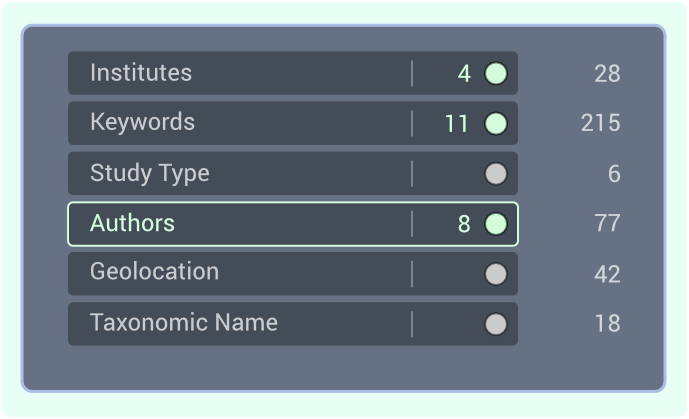
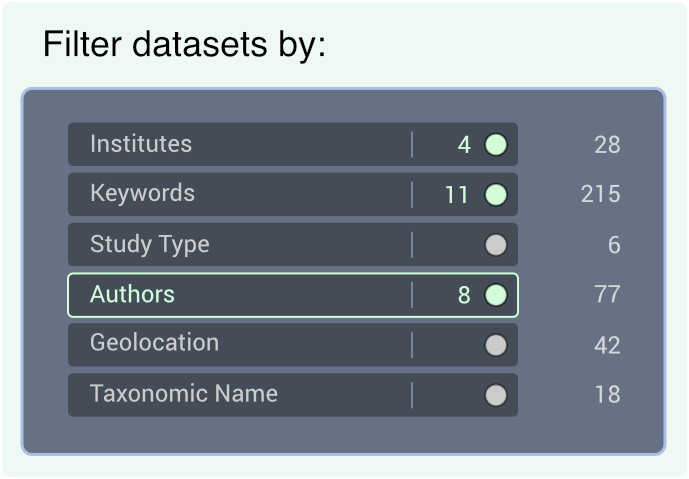
feat RD-85: Add scrollable facets on search page

diff --git a/src/css/r2-boxes-v2.scss b/src/css/r2-boxes-v2.scss
@@ -67,6 +67,41 @@
                 }
             }
 
+            &.v2-search-page-facets-dn-inner {
+                top: 0px;
+                left: 7px;
+                .v2-search-page-facets-dn-inner-box {
+                    width: 322px;
+                    height: calc(100vh - 464px);
+                    top: 361px;
+                    left: 800px;
+                    border-radius: 8px;
+                    background-color: #7b8594;
+                }
+                .view {
+                    .scrollable {
+                        top: 370px;
+                        left: 810px;
+                        height: calc(100vh - 483px);
+                        width: 310px;
+                        .elements {
+                            .v2-search-page-facets-dn-inner-list-1,
+                            .v2-search-page-facets-dn-inner-list-2 {
+                                left: 8px;
+                                top: 4px;
+                                width: calc(560px / 2);
+                                height: calc(640px / 2);
+                            }
+                            .v2-search-page-facets-dn-inner-list-2 {
+                                top: 324px;
+                            }
+
+
+                        }
+                    }
+                }
+            }
+
             &.v2-search-page {
                 top: 0px;
                 left: 7px;
@@ -126,18 +161,31 @@
                         }
 
                         .v2-search-page-facets-up {
-                            // 689 × 419
                             width: calc(689px / 2);
-                            height: calc(419px / 2);
+                            height: calc(479px / 2);
                             top: 58px;
                             left: 789px;
                         }
-                        .v2-search-page-facets-dn {
-                            // 689 × 857
+                        // .v2-search-page-facets-dn {
+                        //     width: calc(689px / 2);
+                        //     height: calc(857px / 2);
+                        //     top: 309px;
+                        //     left: 789px;
+                        // }
+                        .v2-search-page-facets-dn-head {
+                            width: calc(616px / 2);
+                            height: calc(50px / 2);
+                            top: 323px;
+                            left: 809px;
+                        }
+                        .v2-search-page-facets-dn-box {
                             width: calc(689px / 2);
-                            height: calc(857px / 2);
-                            top: 278px;
+                            height: calc(100vh - 400px);
+                            top: 309px;
                             left: 789px;
+                            // border: 1px solid white;
+                            border-radius: 8px;
+                            background-color: #e5e8f5;
                         }
                     }
                     .scrollable {

diff --git a/src/js/R2UiBoxDefinitions.js b/src/js/R2UiBoxDefinitions.js
@@ -116,16 +116,31 @@ function R2UiBoxDefinitions() {
                 }
             }
         },
+        'v2-search-page-facets-dn-inner': {
+            views: {
+                'v2-search-page-facets-dn-inner': {
+                    elements: {
+                        'v2-search-page-facets-dn-inner-box': {}
+                    },
+                    scroll: {
+                        elements: {
+                            'v2-search-page-facets-dn-inner-list-1': {},
+                            'v2-search-page-facets-dn-inner-list-2': {}
+                        }
+                    }
+                }
+            }
+        },
         'v2-search-page': {
             views: {
                 'v2-search-page': {
                     elements: {
-                        // 'v2-search-page-search-bar-top': {},
                         'v2-search-bar-top-with-pager': {},
                         sp: {},
                         'v2-search-page-facets-term': {},
                         'v2-search-page-facets-up': {},
-                        'v2-search-page-facets-dn': {}
+                        'v2-search-page-facets-dn-box': {},
+                        'v2-search-page-facets-dn-head': {}
                     },
                     scroll: {
                         zones: {

diff --git a/src/components/Cage.vue b/src/components/Cage.vue
@@ -6,6 +6,7 @@
         <!--  -->
         <box class="animate" :config="boxes['v2-landing-page']"></box>
         <box class="animate" :config="boxes['v2-search-page']"></box>
+        <box class="animate" :config="boxes['v2-search-page-facets-dn-inner']"></box>
         <box class="animate" :config="boxes['v2-mywork-page']"></box>
         <!--  -->
         <box class="animate" :config="boxes['v2-dataset-view-public']"></box>
@@ -420,6 +421,7 @@ export default {
                 case 'search':
                     goIns = {
                         'v2-search-page': { delay: 0.1, speed: 0.8 },
+                        'v2-search-page-facets-dn-inner': { delay: 0.1, speed: 0.8 },
                         'v2-head-controls': { delay: 0.1, speed: 0.4, view: 'v2-head-controls-close-only' }
                     }
                     break

diff --git a/src/css/r2-assets.scss b/src/css/r2-assets.scss
@@ -86,8 +86,12 @@
         &.v2-search-page-facets-up {
             background-image: url(./r2-ui/v2/webp/search-page-facets-up.webp);
         }
-        &.v2-search-page-facets-dn {
-            background-image: url(./r2-ui/v2/webp/search-page-facets-dn.webp);
+        &.v2-search-page-facets-dn-head {
+            background-image: url(./r2-ui/v2/webp/search-page-facets-dn-head.webp);
+        }
+        &.v2-search-page-facets-dn-inner-list-1,
+        &.v2-search-page-facets-dn-inner-list-2 {
+            background-image: url(./r2-ui/v2/webp/search-page-facets-dn-list.webp);
         }
         //
         &.v2-dataset-view-public-content {
